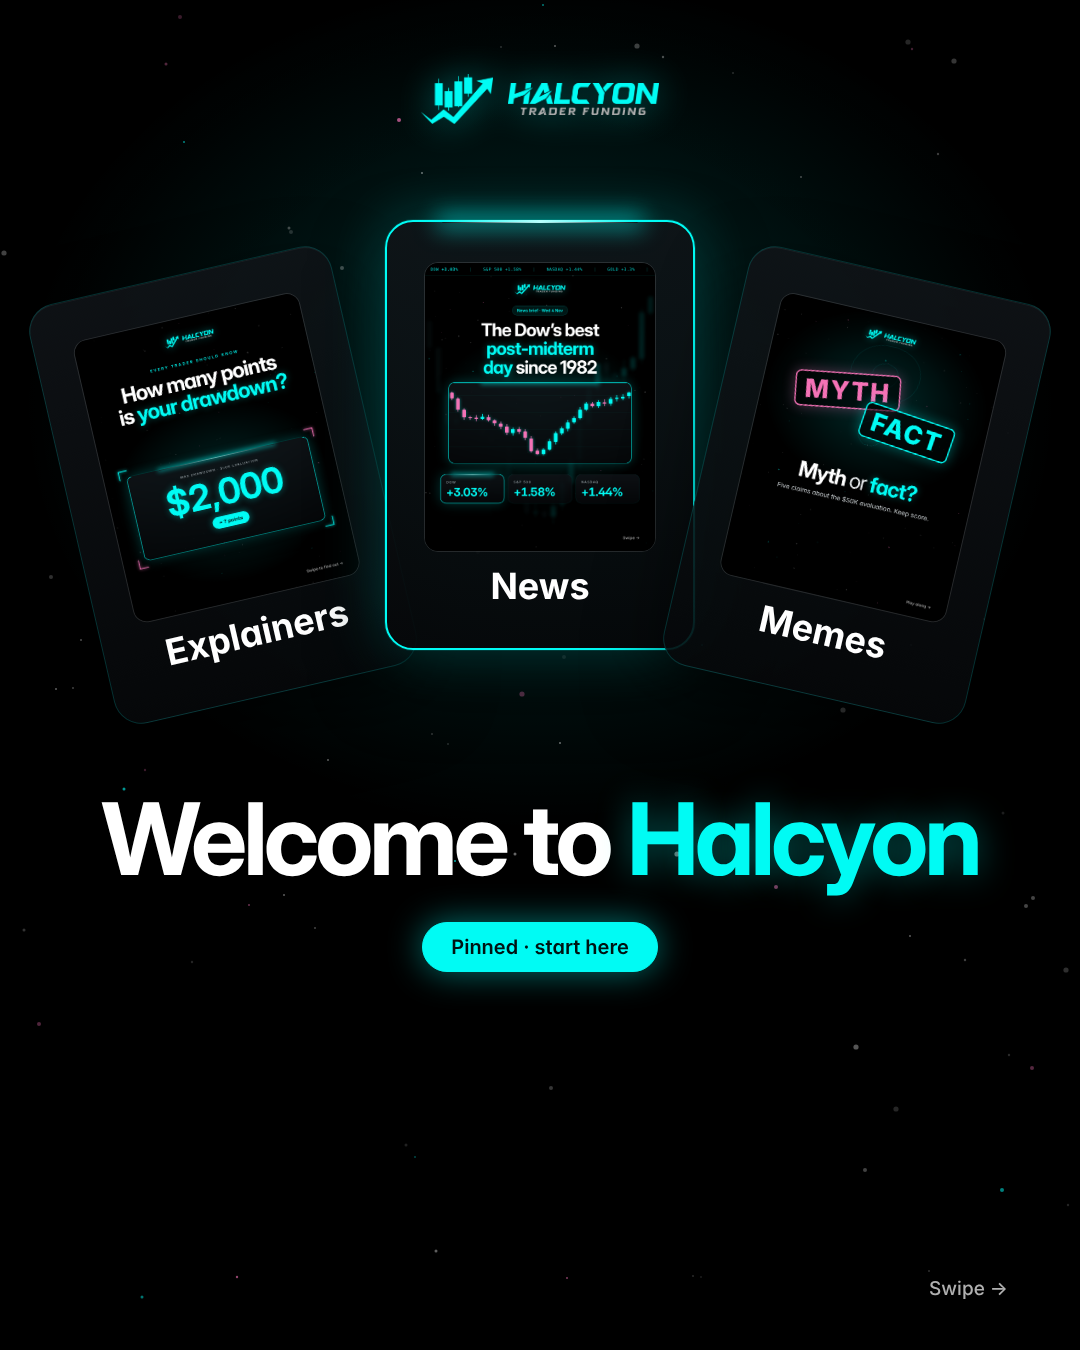
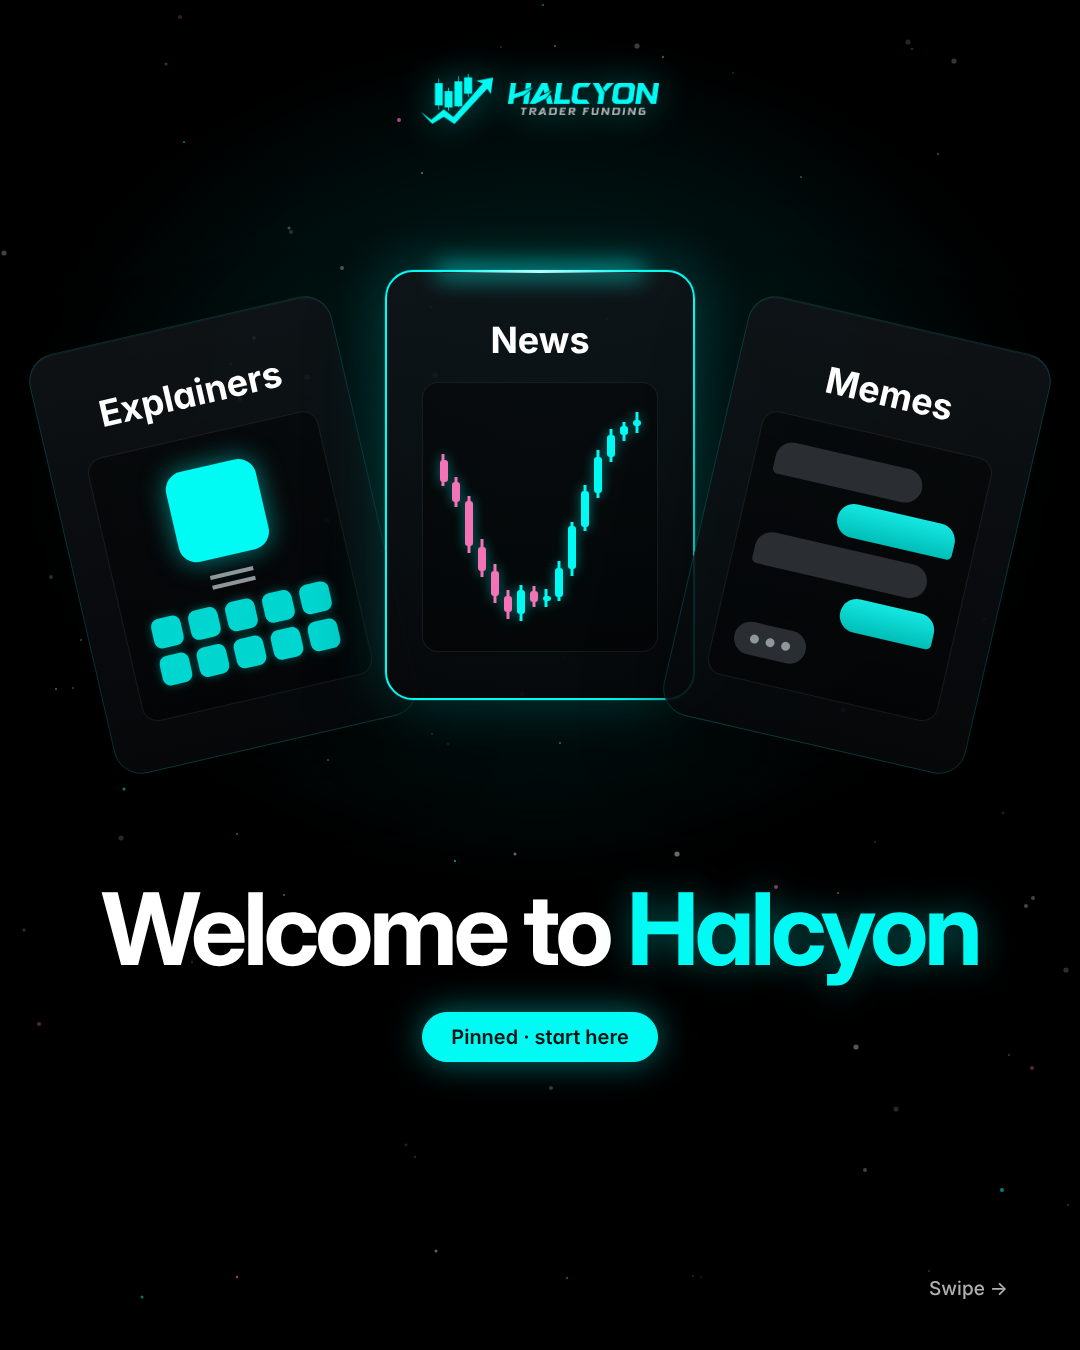
IG pinned cover: labels on top, text-free card visuals
Claude-Session: https://claude.ai/code/session_014Wg4vonDNkrUksnr9PVWof

diff --git a/source/ig/slides.py b/source/ig/slides.py
@@ -534,13 +534,27 @@ IMG = "file:///home/claude/halcyon/ig/img/"
 THUMB = {"News": "nbA_1", "Explainers": "etA_1", "Memes": "mmB_1"}
 
 # ---- Option 1 · The hand (fanned cards)
+def card_visual(lab):
+    """Text-free visuals for the pinned cover cards."""
+    box = 'width:236px;height:270px;border-radius:16px;background:rgba(0,0,0,.4);border:1px solid rgba(255,255,255,.08);display:flex;align-items:center;justify-content:center;flex-direction:column;gap:16px'
+    if lab == "News":
+        return f'<div style="{box}"><svg width="206" height="220" style="filter:drop-shadow(0 0 6px rgba(0,251,244,.45))">{candles_svg(random.Random(14), 206, 220, "vshape", n=16, col_dn="#F472B6", pad=.06)}</svg></div>'
+    if lab == "Explainers":
+        sm = "".join('<div style="width:30px;height:30px;border-radius:8px;background:#00FBF4;opacity:.85;box-shadow:0 0 10px rgba(0,251,244,.4)"></div>' for _ in range(10))
+        return (f'<div style="{box}"><div style="width:92px;height:92px;border-radius:18px;background:#00FBF4;box-shadow:0 0 26px rgba(0,251,244,.5)"></div>'
+                '<div style="width:44px;height:14px;border-top:4px solid #8E979C;border-bottom:4px solid #8E979C"></div>'
+                f'<div style="display:grid;grid-template-columns:repeat(5,30px);gap:8px">{sm}</div></div>')
+    bub = lambda side, w: (f'<div style="align-self:flex-{"end" if side == "r" else "start"};width:{w}px;height:34px;border-radius:{"17px 17px 5px 17px" if side == "r" else "17px 17px 17px 5px"};'
+                           f'background:{"linear-gradient(180deg,#14E8E1,#00BDB7)" if side == "r" else "#2A2E33"}"></div>')
+    dots = '<div style="align-self:flex-start;display:flex;gap:7px;padding:12px 16px;border-radius:17px;background:#2A2E33">' + "".join('<i style="width:9px;height:9px;border-radius:50%;background:#8E979C;display:block"></i>' for _ in range(3)) + '</div>'
+    return f'<div style="{box};align-items:stretch;padding:22px 20px;justify-content:center;gap:12px">{bub("l", 150)}{bub("r", 120)}{bub("l", 176)}{bub("r", 96)}{dots}</div>'
+
 def hand(top, labels, spread=1.0):
     cards = [(-13, -250 * spread, 50), (0, 0, 0), (13, 250 * spread, 50)]
     out = [f'<div style="position:absolute;left:0;right:0;top:{top}px;height:520px">']
     for i, ((rot, dx, dy), (lab, sub)) in enumerate(zip(cards, labels)):
-        out.append(f'<div class="gp {"hot" if i == 1 else ""} ctr" style="position:absolute;left:{540 - 155 + dx:.0f}px;top:{dy}px;width:310px;height:430px;transform:rotate({rot}deg);display:flex;flex-direction:column;align-items:center;justify-content:center;gap:12px;padding:20px">'
-                   f'<img src="{IMG}{THUMB[lab]}.png" style="width:232px;aspect-ratio:4/5;object-fit:cover;border-radius:14px;border:1px solid rgba(255,255,255,.12);display:block">'
-                   f'<div style="font-size:36px;font-weight:700">{lab}</div></div>')
+        out.append(f'<div class="gp {"hot" if i == 1 else ""} ctr" style="position:absolute;left:{540 - 155 + dx:.0f}px;top:{dy}px;width:310px;height:430px;transform:rotate({rot}deg);display:flex;flex-direction:column;align-items:center;justify-content:center;gap:20px;padding:20px">'
+                   f'<div style="font-size:36px;font-weight:700">{lab}</div>{card_visual(lab)}</div>')
     out.append('</div>')
     return "".join(out)
 HAND = [("Explainers", ""), ("News", ""), ("Memes", "")]
@@ -663,8 +677,8 @@ add("mmB_1", bg(81, "flat", glow=(50, 30)) + cover_top() +
     '<div class="pad ctr" style="top:740px"><h1 class="hl xl">Myth <span class="lt">or</span> <span class="glow">fact?</span></h1>'
     '<p class="body" style="margin-top:26px">Five claims about the $50K evaluation. Keep score.</p></div>' + foot("Play along &rarr;", logo_on=False))
 
-add("wcB_1", bg(161, "flat", glow=(50, 30)) + cover_top() + hand(220, HAND, spread=1.27) +
-    '<div class="pad ctr" style="top:790px"><h1 class="hl xl">Welcome to <span class="glow">Halcyon</span></h1>'
+add("wcB_1", bg(161, "flat", glow=(50, 34)) + cover_top() + hand(270, HAND, spread=1.27) +
+    '<div class="pad ctr" style="top:880px"><h1 class="hl xl">Welcome to <span class="glow">Halcyon</span></h1>'
     '<div style="margin-top:34px"><span class="pill on" style="font-size:20px;padding:12px 28px">Pinned &middot; start here</span></div></div>' + foot("Swipe &rarr;", logo_on=False))
 
 add("wcC_1", bg(171, "up", glow=(50, 34)) + rings(540, 380, (270, 390, 520)) + hero_chart(171, "up", top=800, h=460, n=34, op=1, left=90, right=90) +
